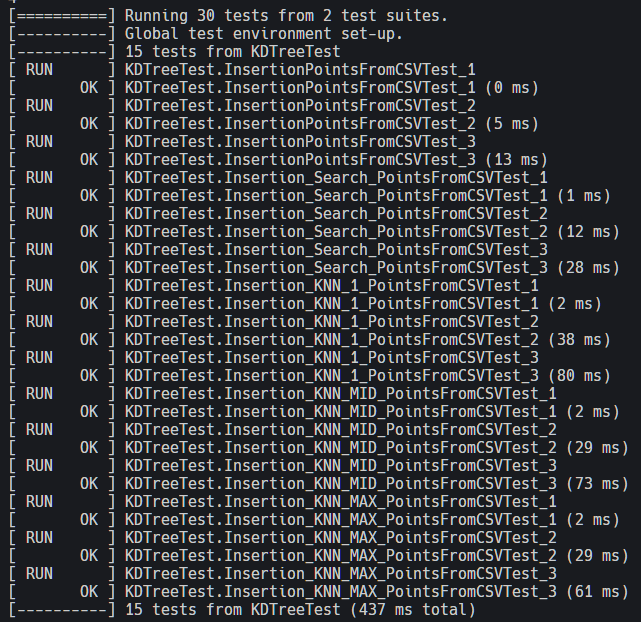
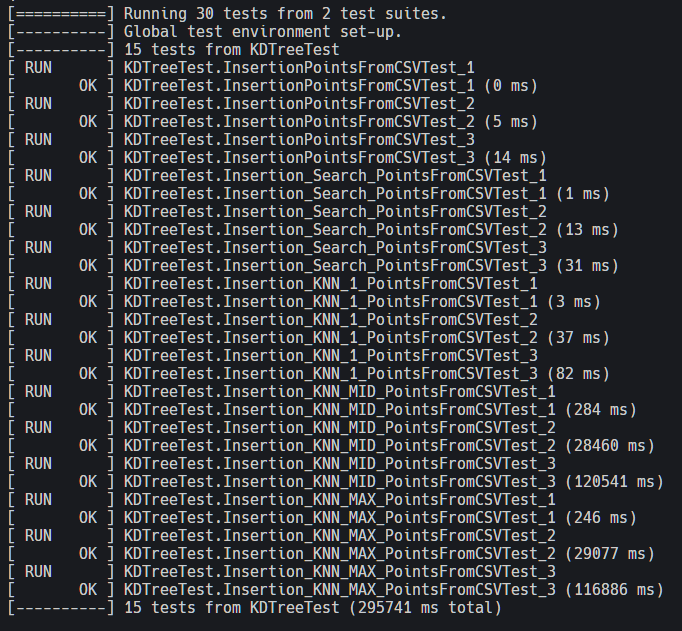
Fixing methods

diff --git a/Components/kdtree/KDTree.cpp b/Components/kdtree/KDTree.cpp
@@ -10,7 +10,7 @@ void KDTree::Insert(Node *&root, Vec3D data, int depth)
 {
     if (root == NULL)
     {
-        root = new Node(data);
+        root = new Node(data, depth);
         return;
     }
     int cd = depth % k;
@@ -39,17 +39,17 @@ void KDTree::Insert(Node *&root, Vec3D data, int depth)
 
 void KDTree::print()
 {
-    Print(root, 0);
+    Print(root);
 }
 
-void KDTree::Print(Node *root, int depth)
+void KDTree::Print(Node *root)
 {
     if (root == NULL)
         return;
-    Print(root->left, depth++);
+    Print(root->left);
     std::cout << "(" << root->data.getX() << ", " << root->data.getY() << ", " << root->data.getZ();
-    std::cout << ") Level:" << depth << std::endl;
-    Print(root->right, depth++);
+    std::cout << ") Level:" << root->depth << std::endl;
+    Print(root->right);
 }
 
 bool KDTree::search(Vec3D data)
@@ -95,42 +95,50 @@ void KDTree::clear()
 
 std::vector<Vec3D> KDTree::KNN(Vec3D data, int cantPoints)
 {
-    std::vector<std::pair<double, Vec3D>> queue;
-    queue.reserve(cantPoints);
+    std::vector<Neighbor> queue;
     KNNRecursive(root, data, cantPoints, queue);
     std::vector<Vec3D> neighbours;
-    for (const auto &pair : queue)
-        neighbours.push_back(pair.second);
+    for (auto &n : queue)
+        neighbours.push_back(n.point);
     return neighbours;
 }
 
-void KDTree::KNNRecursive(Node *node, Vec3D query, int cantPoints, std::vector<std::pair<double, Vec3D>> &queue)
+void KDTree::KNNRecursive(Node *node, Vec3D query, int cantPoints, std::vector<Neighbor> &neighbors)
 {
     if (node == nullptr)
         return;
 
     double dist = distance(node->data, query);
-    queue.emplace_back(dist, node->data);
-
-    int axis = 0;
-    if (query.getY() < node->data.getY())
-        axis = 1;
-
-    Node *firstNode = axis ? node->left : node->right;
-    Node *secondNode = axis ? node->right : node->left;
-
-    KNNRecursive(firstNode, query, cantPoints, queue);
-
-    double diff = std::fabs(query.getCord(axis) - node->data.getCord(axis));
-    if (queue.size() < cantPoints || diff < queue.back().first)
+    if (neighbors.size() < cantPoints)
     {
-        KNNRecursive(secondNode, query, cantPoints, queue);
+        neighbors.emplace_back(node->data, dist);
+        std::push_heap(neighbors.begin(), neighbors.end());
+    }
+    else if (dist < neighbors.front().distance)
+    {
+        std::pop_heap(neighbors.begin(), neighbors.end());
+        neighbors.back() = Neighbor(node->data, dist);
+        std::push_heap(neighbors.begin(), neighbors.end());
     }
 
-    if (queue.size() > cantPoints * 2)
+    int axis = node->depth % k;
+    Node *firstNode = nullptr;
+    Node *secondNode = nullptr;
+
+    if (query.getCord(axis) < node->data.getCord(axis))
     {
-        // Mantener solo los 'cantPoints' puntos más cercanos
-        std::nth_element(queue.begin(), queue.begin() + cantPoints, queue.end(), CompareDist());
-        queue.resize(cantPoints);
+        firstNode = node->left;
+        secondNode = node->right;
+    }
+    else
+    {
+        firstNode = node->right;
+        secondNode = node->left;
+    }
+
+    KNNRecursive(firstNode, query, cantPoints, neighbors);
+    if (neighbors.size() < cantPoints || std::fabs(query.getCord(axis) - node->data.getCord(axis)) < neighbors.front().distance)
+    {
+        KNNRecursive(secondNode, query, cantPoints, neighbors);
     }
 }

diff --git a/Components/kdtree/KDTree.hpp b/Components/kdtree/KDTree.hpp
@@ -7,22 +7,28 @@
 #include <cmath>
 #include <utility>
 #include <queue>
+#include <stack>
+#include <set>
 #include "../Vec3D/vec3d.hpp"
 
-struct CompareDist
+struct Neighbor
 {
-    bool operator()(const std::pair<double, Vec3D> &a, const std::pair<double, Vec3D> &b) const
+    Vec3D point;
+    double distance;
+    Neighbor(Vec3D p, double d) : point(p), distance(d) {}
+    bool operator<(const Neighbor &other) const
     {
-        return a.first < b.first;
+        return distance < other.distance;
     }
 };
 
 struct Node
 {
     Vec3D data;
+    int depth;
     Node *left;
     Node *right;
-    Node(Vec3D data) : data(data), left(NULL), right(NULL) {}
+    Node(Vec3D data, int depth) : data(data), depth(depth), left(NULL), right(NULL) {}
 };
 
 class KDTree
@@ -43,9 +49,9 @@ public:
 
 private:
     void Insert(Node *&root, Vec3D data, int depth);
-    void Print(Node *root, int depth);
+    void Print(Node *root);
     bool Search(Node *root, Vec3D data, int depth);
-    void KNNRecursive(Node *node, Vec3D query, int cantPoints, std::vector<std::pair<double, Vec3D>> &queue);
+    void KNNRecursive(Node *node, Vec3D query, int cantPoints, std::vector<Neighbor> &neighbors);
     double distance(Vec3D a, Vec3D b)
     {
         return std::sqrt(std::pow(a.getX() - b.getX(), 2) + std::pow(a.getY() - b.getY(), 2) + std::pow(a.getZ() - b.getZ(), 2));

diff --git a/Components/tester/Tester.cpp b/Components/tester/Tester.cpp
@@ -315,21 +315,21 @@ TEST_F(KDTreeTest, Insertion_KNN_MAX_PointsFromCSVTest_1)
 {
     kdtree = csv.readAndConvert(1);
     std::string filename = "../Resources/1000.csv";
-    testPointsKNN_KDTREE(filename, kdtree, 999);
+    testPointsKNN_KDTREE(filename, kdtree, 1000);
 }
 
 TEST_F(KDTreeTest, Insertion_KNN_MAX_PointsFromCSVTest_2)
 {
     kdtree = csv.readAndConvert(2);
     std::string filename = "../Resources/10000.csv";
-    testPointsKNN_KDTREE(filename, kdtree, 9999);
+    testPointsKNN_KDTREE(filename, kdtree, 10000);
 }
 
 TEST_F(KDTreeTest, Insertion_KNN_MAX_PointsFromCSVTest_3)
 {
     kdtree = csv.readAndConvert(3);
     std::string filename = "../Resources/20000.csv";
-    testPointsKNN_KDTREE(filename, kdtree, 19999);
+    testPointsKNN_KDTREE(filename, kdtree, 20000);
 }
 
 // Direct Test
